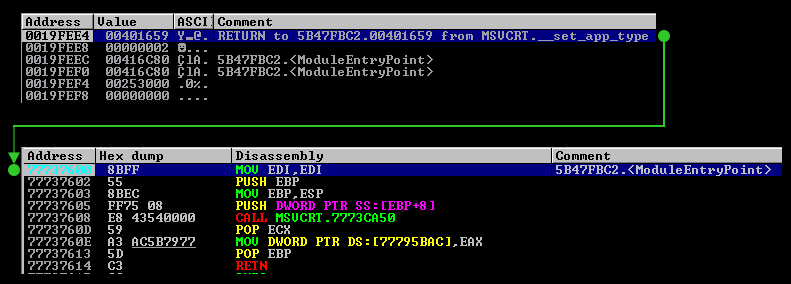
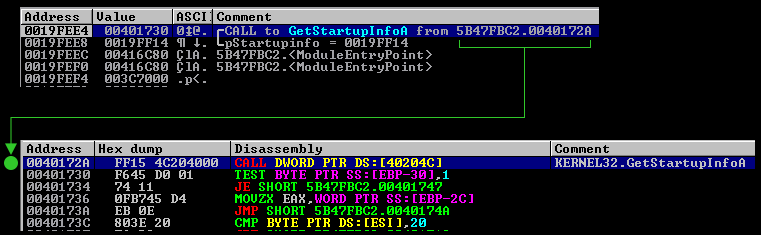
update on post

diff --git a/_posts/2020-11-30-Manually-unpacking-malware-part2.md b/_posts/2020-11-30-Manually-unpacking-malware-part2.md
@@ -41,19 +41,13 @@ Continuing, we jump to where the original `KERNEL32.WinExec` call occured.
 ## Getting OEP in our sample via this technique
 To gain the true OEP address of the unpacked malware in our sample we can start to look for calls to functions that are typically seen very early on in the lifecycle of a Windows application.  The following set of functions are possible candidates:
 
-`MSVCRT.__set_app_type`<br/>
-`MSVCRT.__p__fmode`<br/>
-`MSVCRT.__p__commode`<br/>
-`MSVCRT._initterm`<br/>
-`MSVCRT.__getmainargs`<br/>
-`MSVCRT._initterm`<br/>
-`KERNEL32.GetStartupInfoA`
+`KERNEL32.GetStartupInfoA`<br/>
+`KERNEL32.GetCommandLineA`
 
-Upon opening the malware binary in Immunity Debugger, setting a breakpoint on `MSVCRT.__set_app_type` and hitting `F9`, we land in the `MSVCRT` memory section at the `__set_app_type` function.  In this case, it was called at the first level in the main thread and shows a return address value of `00401659`.
+Upon opening the malware binary in Immunity Debugger, setting a breakpoint on these two functions and hitting `F9`, we land in the `KERNEL32` memory section at the `GetStartupInfoA` function.  In this case, it was called at the first level in the main thread and shows a return address value of `00401730`.
 <img src="{{ site.url }}/assets/img/blogging/unpacking_immdbg_backtrace_3.png"/>
 
-
-If we follow the return address of `000401659` we can start to scroll up through the instructions to find the beginning of the function.  You will see the instruction `PUSH EBP` in the preamble of the functions assembly.  Another indicator we are at the beginning is the `RETN` instruction a little higher above it.
+If we follow to the return address of `00401730` we can start to scroll up through the instructions to find the beginning of the function.  You will see the instruction `PUSH EBP` in the preamble of the functions assembly.  Another indicator we are at the beginning is the `RETN` instruction a little higher above it.
 <img src="{{ site.url }}/assets/img/blogging/unpacking_immdbg_backtrace_4.png"/>
 
 ## Conclusion
